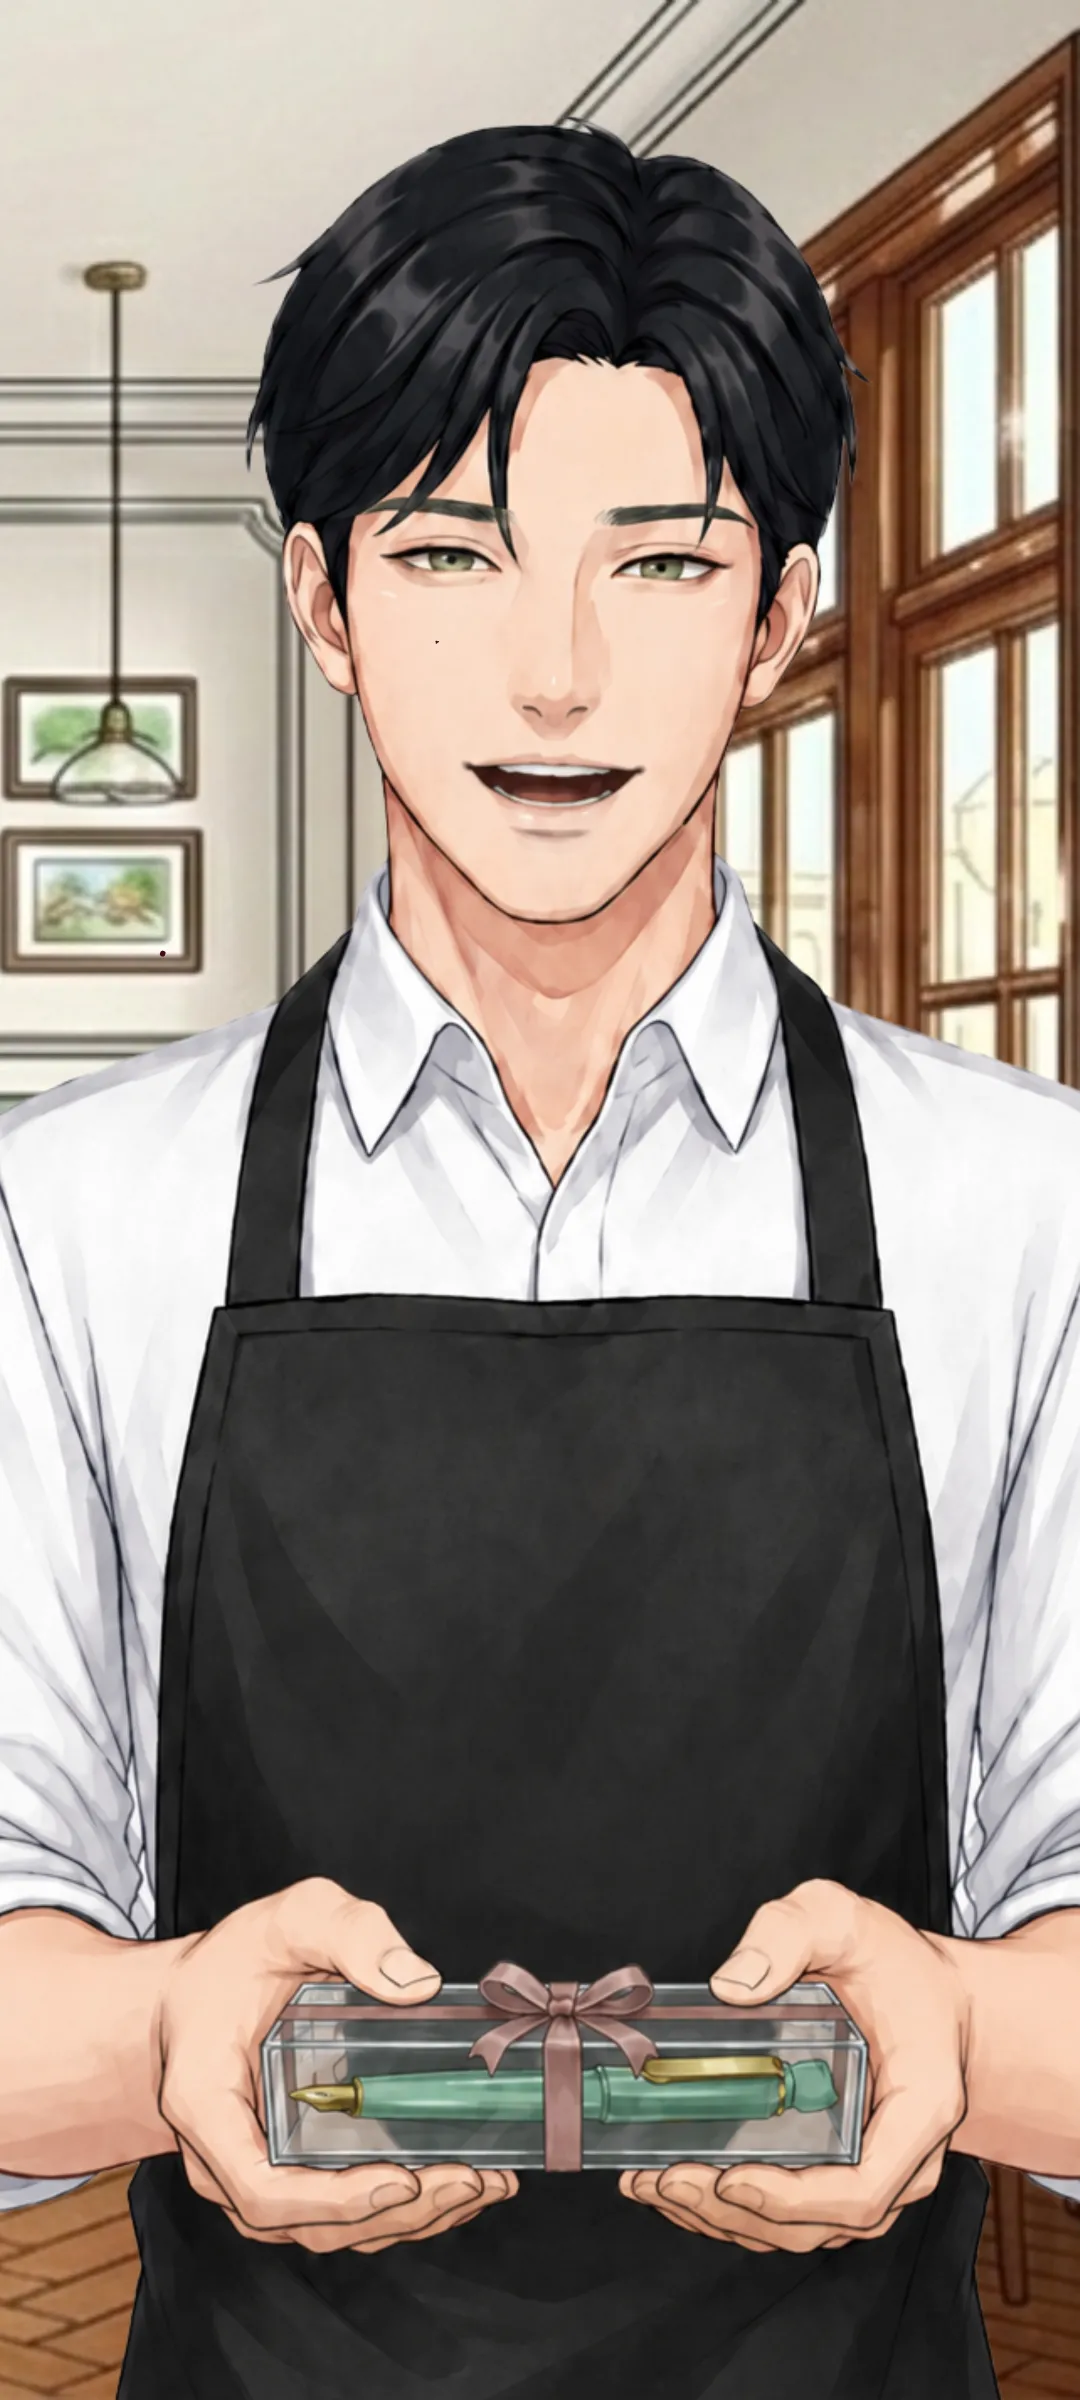
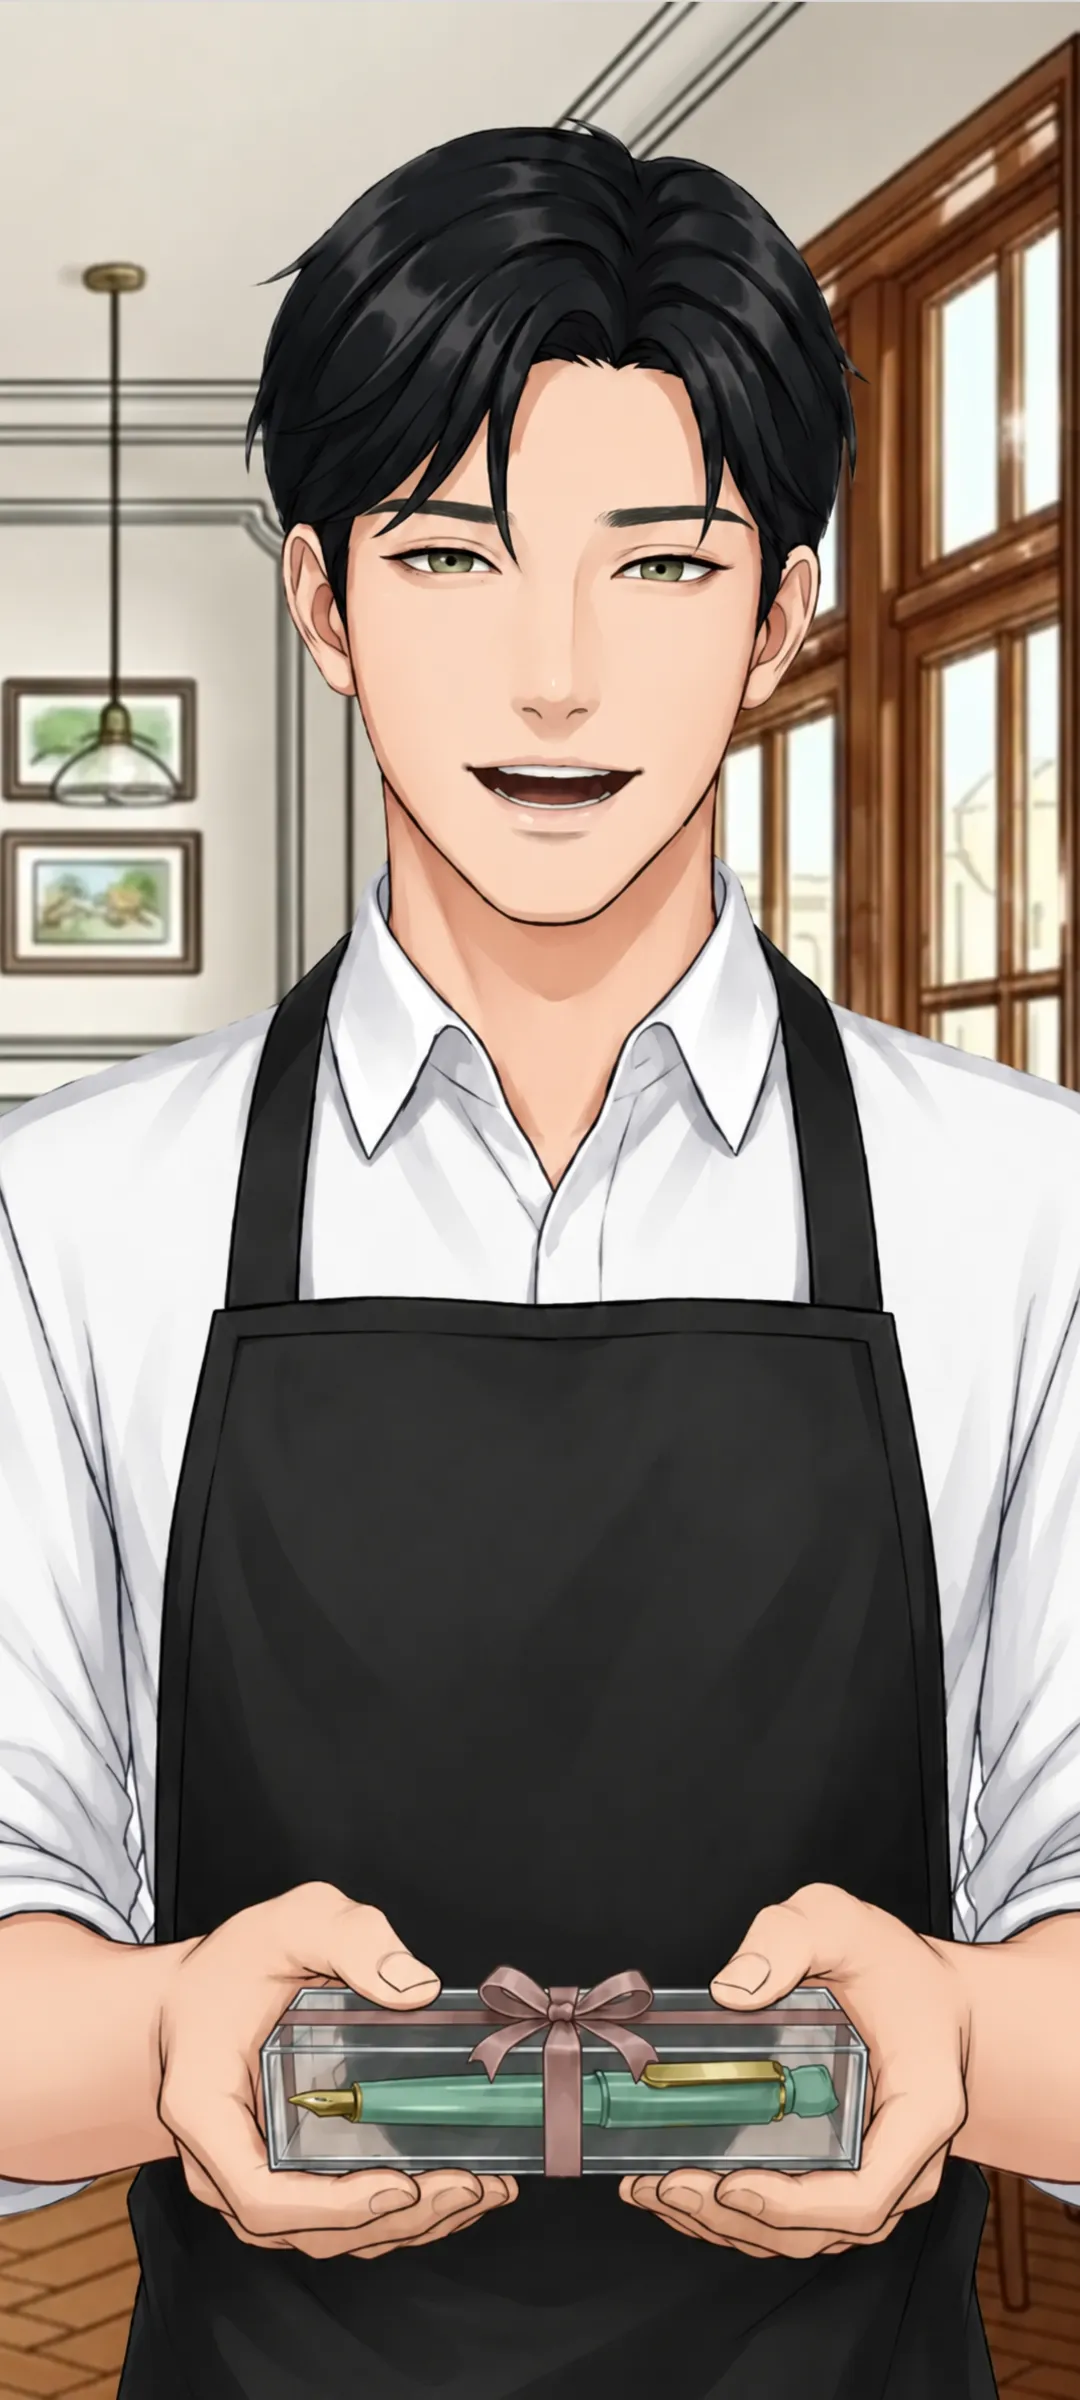
step3修正

diff --git a/logic-state.js b/logic-state.js
@@ -126,11 +126,9 @@ function resetAbandonment() {
     if (currentState !== 'normal') {
         localStorage.setItem('justRecoveredThisReport', 'true');
     }
-    if (currentState !== 'normal') {
+ if (currentState !== 'normal') {
         localStorage.setItem('followUpAbandonDays', getAbandonDays().toString());
     }
-// これは復帰フォローアップバナー専用、ステップ3の値とは別物
-
     localStorage.setItem('lastAbandonDaysBeforeReset', getAbandonDays().toString());
     setAbandonDays(0);
     setMobuState('normal');
